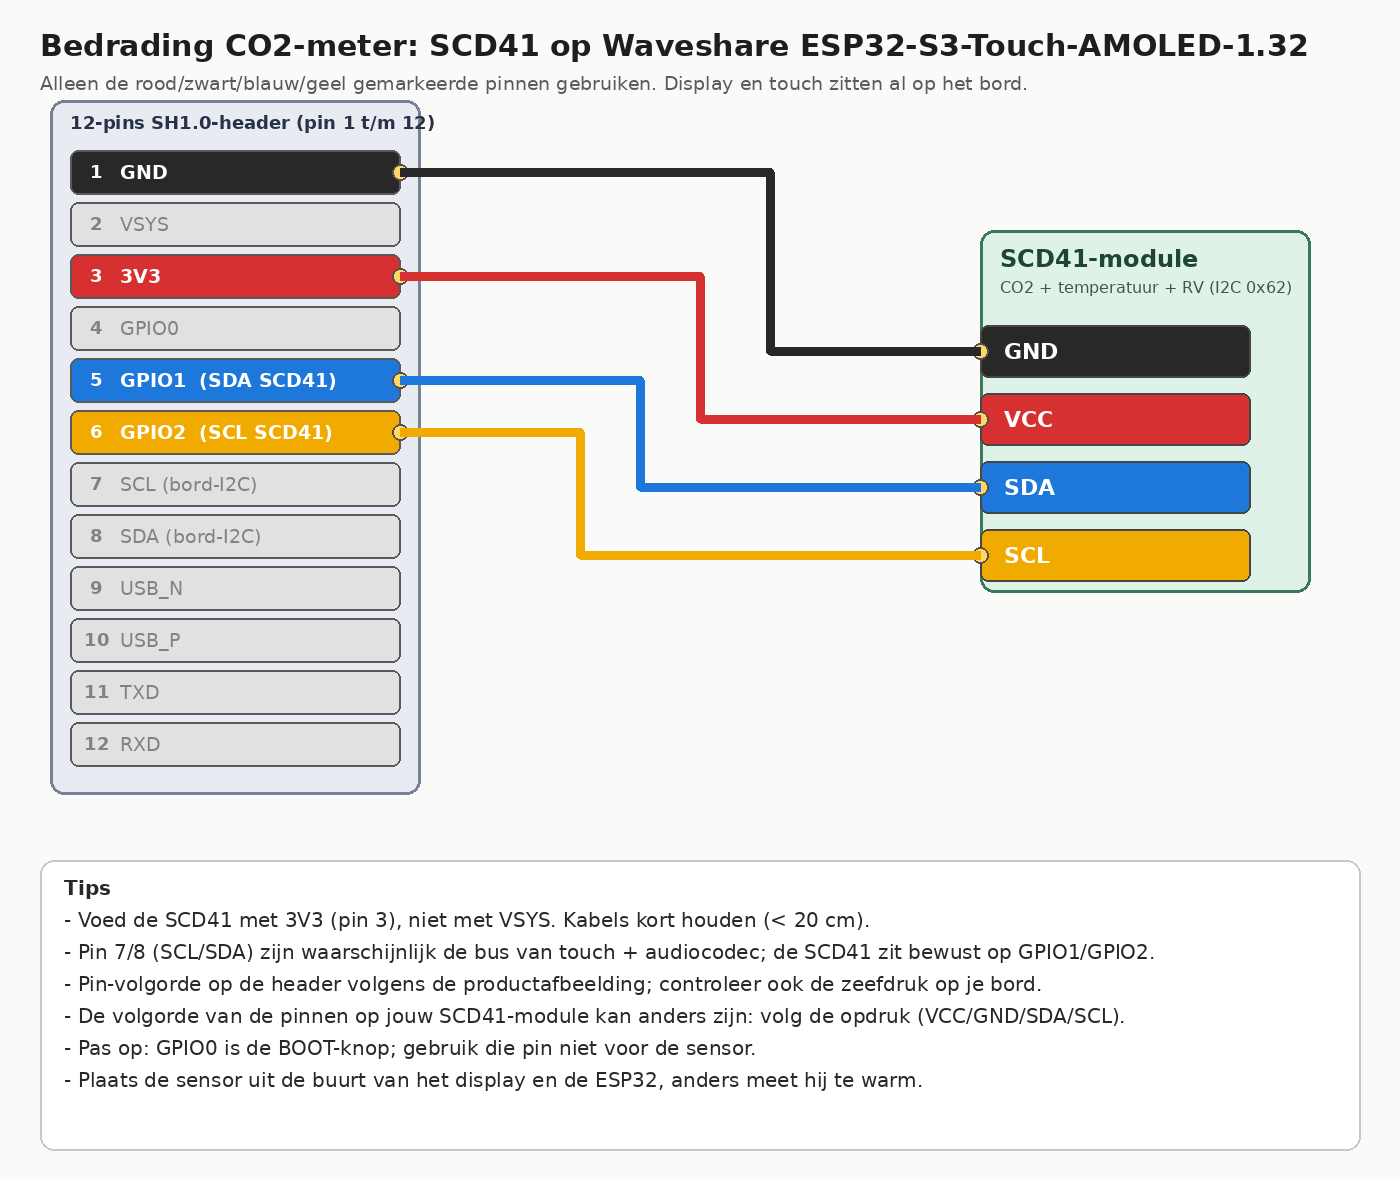
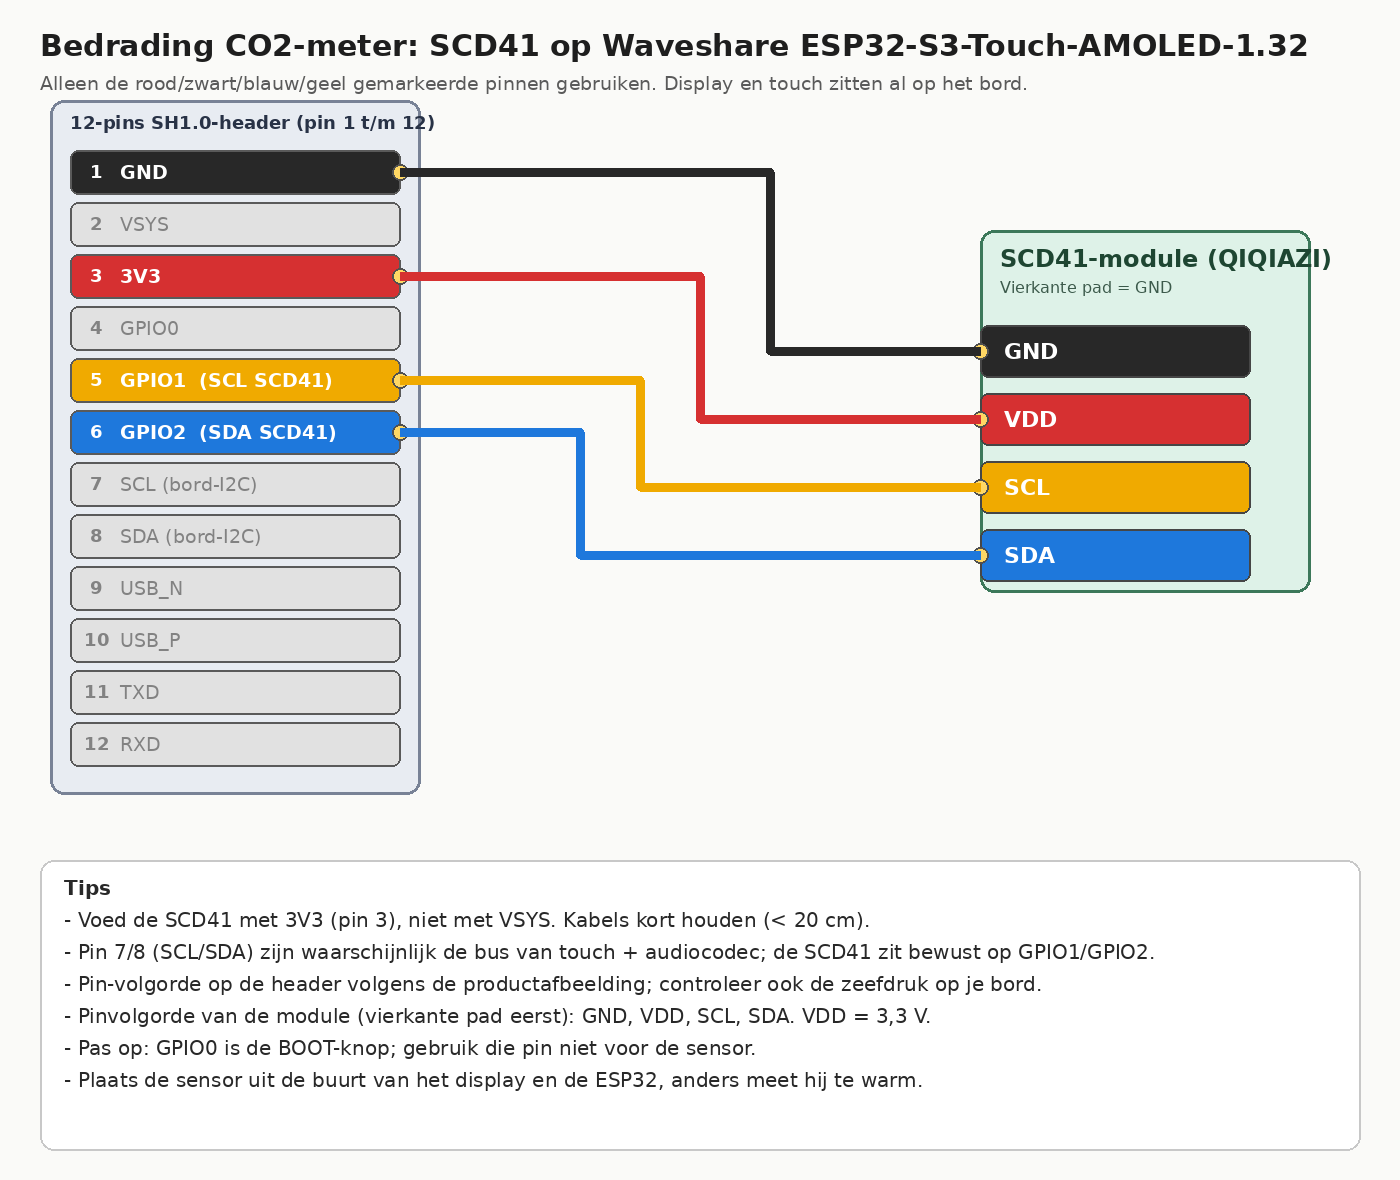
fix: pinvolgorde SCD41-module (GND, VDD, SCL, SDA) in schema en config
Claude-Session: https://claude.ai/code/session_01Qb5Tz65QyZsqmdZHsuQ4wf

Changed region(s): [[0.0307, 0.3051, 0.8907, 0.5186], [0.0614, 0.8542, 0.7986, 0.8847], [0.86, 0.2136, 0.9521, 0.2441]]

diff --git a/co2-meter/README.md b/co2-meter/README.md
@@ -12,12 +12,12 @@ ESPHome-firmware voor een CO2-meter met ronde AMOLED-display.
 
 Op de 12-pins SH1.0-header van het bord (volgorde volgens de productafbeelding: GND, VSYS, 3V3, GPIO0, GPIO1, GPIO2, SCL, SDA, USB_N, USB_P, TXD, RXD):
 
-| SCD41 | Header-pin | ESP32-S3 |
+| SCD41-pad (vierkante pad eerst) | Header-pin | ESP32-S3 |
 |-------|------------|----------|
-| VCC   | 3 (3V3)    | 3,3 V    |
 | GND   | 1 (GND)    | GND      |
-| SDA   | 5 (GPIO1)  | `sensor_sda` |
-| SCL   | 6 (GPIO2)  | `sensor_scl` |
+| VDD   | 3 (3V3)    | 3,3 V    |
+| SCL   | 5 (GPIO1)  | `sensor_scl` |
+| SDA   | 6 (GPIO2)  | `sensor_sda` |
 
 Display (CO5300) en touch (CST820) zitten al op het bord. Hun pinnen staan in `co2-meter.yaml`
 (LCD: CS 10, CLK 11, D0-D3 12-15, RESET 8, TE 9; touch: SDA 47, SCL 48, INT 6, RST 7).
